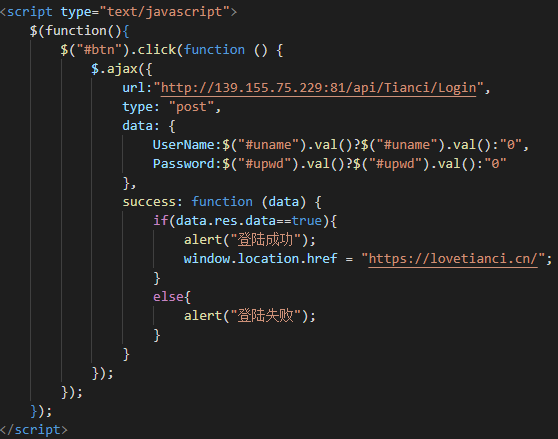
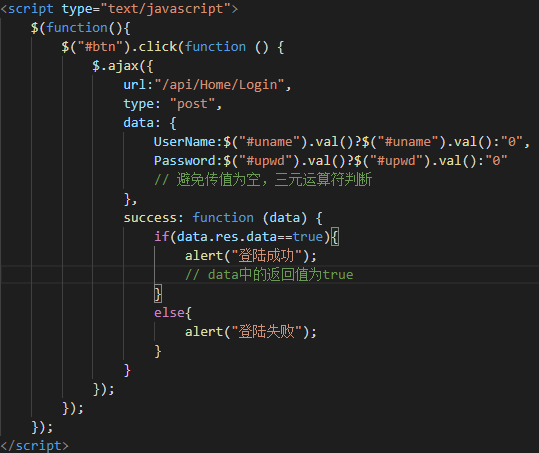
Site updated: 2020-01-28 16:48:57

Changed region(s): [[0.0, 0.0, 0.9796, 0.918], [0.0, 0.918, 0.1484, 1.0], [0.9796, 0.5923, 1.0, 0.6219]]

diff --git a/2020/01/28/ajax0128/index.html b/2020/01/28/ajax0128/index.html
@@ -21,7 +21,7 @@
 <meta property="og:locale" content="en_US">
 <meta property="og:image" content="http://www.lovetianci.com/2020/01/28/ajax0128/code.png">
 <meta property="article:published_time" content="2020-01-28T05:14:20.000Z">
-<meta property="article:modified_time" content="2020-01-28T08:02:11.309Z">
+<meta property="article:modified_time" content="2020-01-28T08:47:36.205Z">
 <meta property="article:author" content="Tianci">
 <meta property="article:tag" content="技术">
 <meta name="twitter:card" content="summary">
@@ -111,6 +111,30 @@
       
         <h1 id="Ajax请求post接口"><a href="#Ajax请求post接口" class="headerlink" title="Ajax请求post接口"></a>Ajax请求post接口</h1><h3 id="先导入jquery-3-3-1-min-js"><a href="#先导入jquery-3-3-1-min-js" class="headerlink" title="先导入jquery-3.3.1.min.js"></a>先导入jquery-3.3.1.min.js</h3><h3 id="废话不多说直接上代码"><a href="#废话不多说直接上代码" class="headerlink" title="废话不多说直接上代码"></a>废话不多说直接上代码</h3><a id="more"></a>
 <p><img src="/2020/01/28/ajax0128/code.png" alt="JavaScript代码"></p>
+<script type="text/javascript">
+    $(function(){
+        $("#btn").click(function () {
+            $.ajax({
+                url:"/api/Home/Login",
+                type: "post",
+                data: {
+                    UserName:$("#uname").val()?$("#uname").val():"0",
+                    Password:$("#upwd").val()?$("#upwd").val():"0"
+                    // 避免传值为空，三元运算符判断
+                },
+                success: function (data) {
+                    if(data.res.data==true){
+                        alert("登陆成功");
+                        // data中的返回值为true
+                    }
+                    else{
+                        alert("登陆失败");
+                    }
+                }
+            });
+        });
+    });
+</script>
 <h3 id="url-地址"><a href="#url-地址" class="headerlink" title="url:地址,"></a>url:地址,</h3><h3 id="type-请求方式：get或者post"><a href="#type-请求方式：get或者post" class="headerlink" title="type: 请求方式：get或者post"></a>type: 请求方式：get或者post</h3><h3 id="data-里面放参数"><a href="#data-里面放参数" class="headerlink" title="data: 里面放参数"></a>data: 里面放参数</h3><h3 id="success：请求成功走以下代码"><a href="#success：请求成功走以下代码" class="headerlink" title="success：请求成功走以下代码"></a>success：请求成功走以下代码</h3><h3 id="不会描述，就这样吧"><a href="#不会描述，就这样吧" class="headerlink" title="不会描述，就这样吧!!!"></a>不会描述，就这样吧!!!</h3>
       
     </div>
